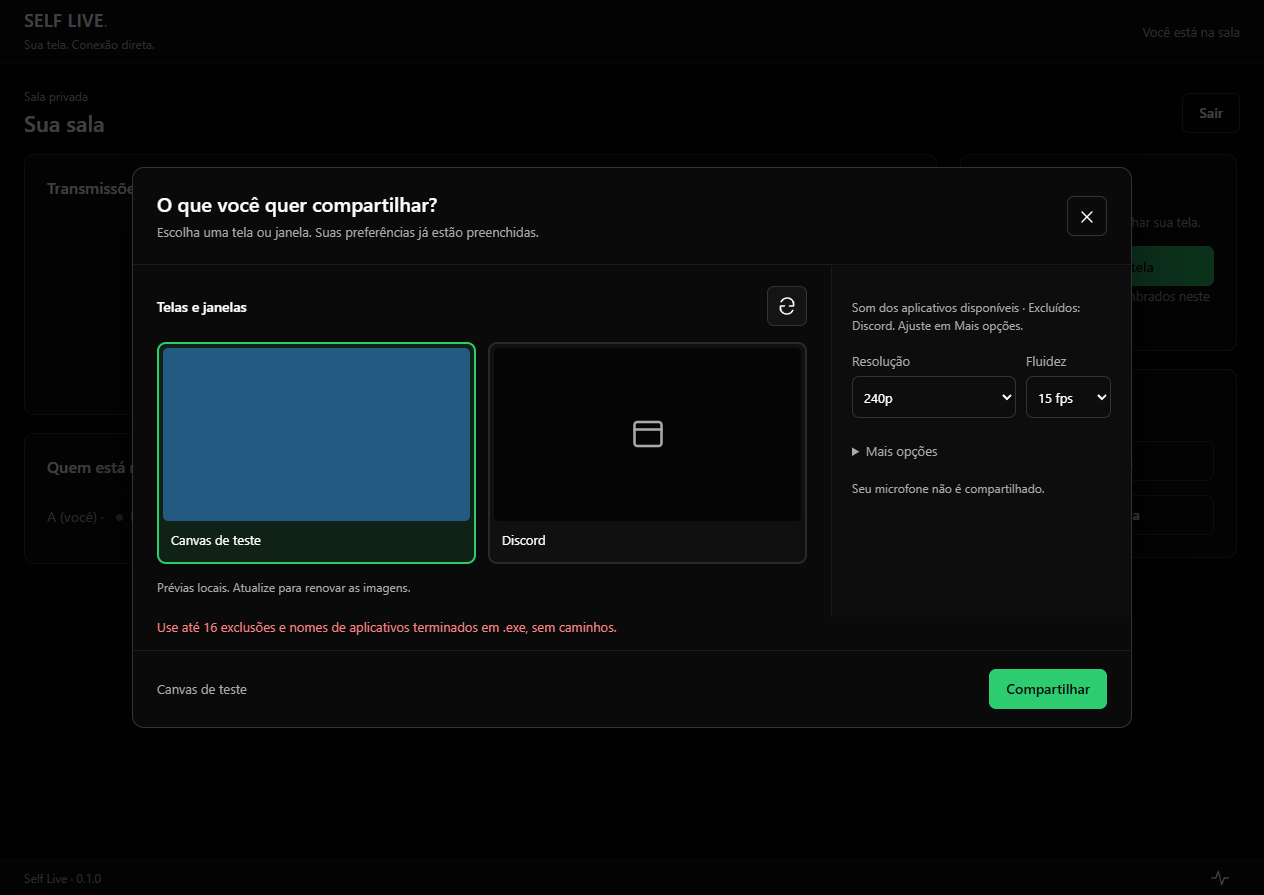
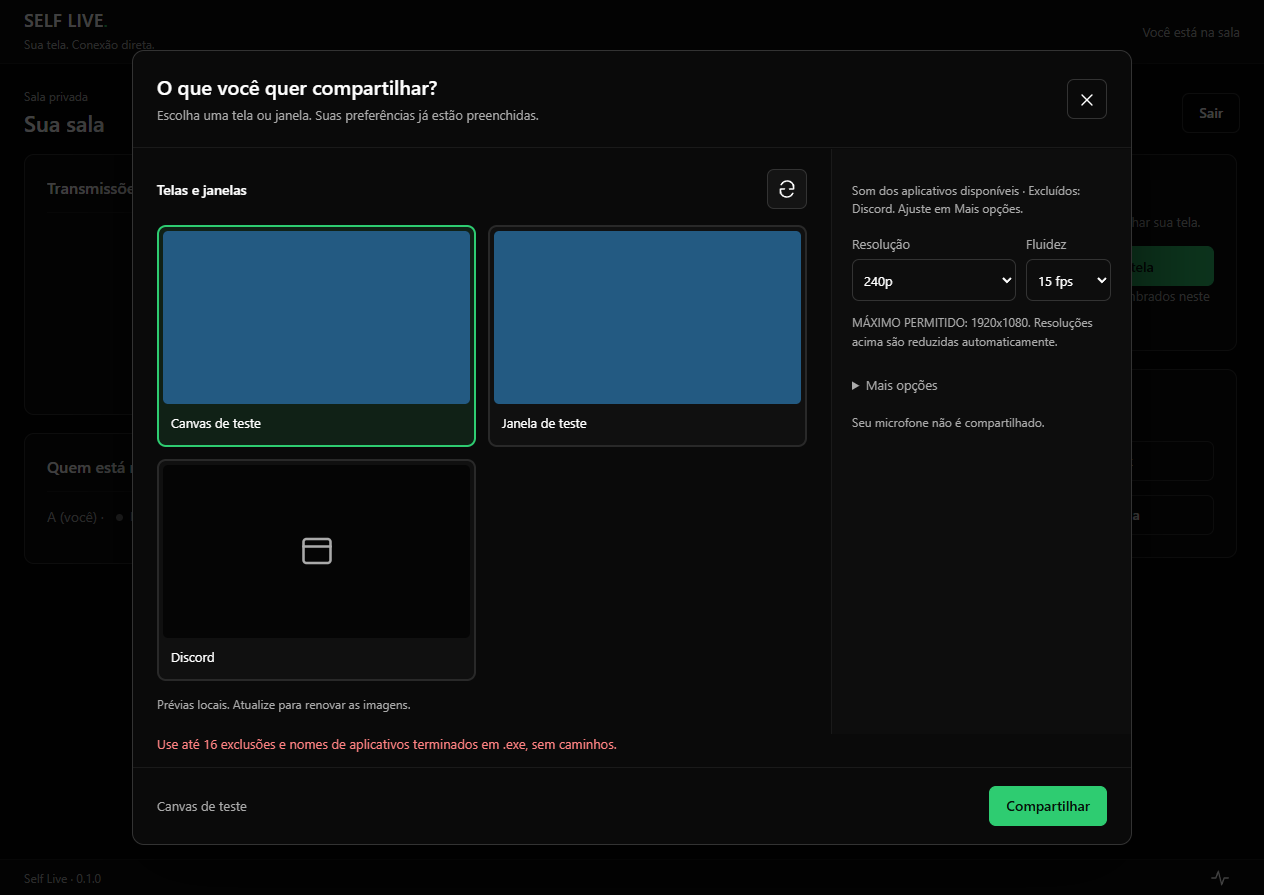
docs: document GPU diagnostics and refresh dashboard screenshots

diff --git a/docs/stream-audit.md b/docs/stream-audit.md
@@ -1,68 +1,65 @@
 # Auditoria de transmissão sob carga
 
-Ao começar a compartilhar, o app cria automaticamente um arquivo
-`self-live-audit-DATA-PID.jsonl` **na pasta do EXE portátil**. Nenhuma configuração
-é necessária. Pare a transmissão antes de enviar o arquivo; assim ele terá o
-registro de encerramento. O diagnóstico avançado informa o nome do arquivo.
+Na página inicial, abra **CONFIGURAÇÕES DE DIAGNÓSTICO** e ative **ATIVAR LOGS DE
+DIAGNÓSTICO** antes de transmitir. O padrão é OFF e a preferência fica em
+`config/local.json`, dentro dos dados do usuário do app. Não exige reinício.
+O toggle só existe na página inicial e fica bloqueado durante captura ativa.
 
-Se a pasta não permitir escrita, o arquivo fica em `audit` dentro dos dados do
-app (`%APPDATA%\self-live`, conforme o perfil da instalação). O diagnóstico avisa
-quando isso acontecer. Em desenvolvimento, os logs ficam na raiz do projeto.
-Falha no diagnóstico não interrompe a transmissão. Nada é enviado automaticamente.
+Os arquivos são gravados em **Documentos/SelfLive-Logs**, com nome
+`diagnostic-DATA-PID-PARTE.jsonl`. Use **ABRIR PASTA DE LOGS**. Cada parte tem até
+10 MiB, conservando as cinco últimas partes geradas. Pare antes de enviar para
+incluir o registro de encerramento. Não há mais criação automática ao lado do EXE.
+Se a pasta não puder ser gravada, o app avisa e mantém a transmissão.
 
-## O que coletamos
+## Experimento comparável
 
-- Versões do app, Electron/Chromium e Windows; arquitetura, número de threads e RAM.
-- Identificadores PCI não exclusivos dos adaptadores e versão do driver, quando disponível.
-- Configuração de captura, teto de bitrate e política de adaptação usados nesta build.
-- A cada 2 segundos: fps da fonte quando exposto pelo WebRTC, fps codificado/enviado,
-  resolução do envio, bitrate efetivo, tempo médio de encoding, motivo e duração
-  das limitações, RTT/perda/jitter reportados e número de viewers.
-- Uso de CPU e memória dos processos do Self Live; estado da prévia e do teste local.
-- A cada 10 segundos: carga dos motores 3D, cópia, compute e vídeo disponíveis
-  nos contadores Windows. Os valores representam o motor mais ocupado entre os
-  adaptadores, somando seus processos; não identificam qual jogo ou GPU o produziu.
-  A duração da consulta também é registrada. Se a consulta falhar, ela é desativada
-  até a próxima transmissão, sem afetar vídeo ou áudio.
+1. Ative logs na página inicial. Entre na sala e compartilhe a mesma fonte com
+   a mesma resolução, FPS e bitrate, sempre limitados a 1920 × 1080.
+2. Nos controles avançados da transmissão, desligue **ADAPTIVE** para o teste
+   manual não mudar a qualidade. Conecte um viewer, jogue com FPS ilimitado por
+   30–60 segundos, pare e exporte o diagnóstico pelo diagnóstico geral.
+3. Repita alterando somente o cap de FPS do jogo para 144. Esse cap é configurado
+   no jogo; o FPS de captura é outra configuração.
+4. Compare separadamente preview visível/oculto, 60/45/30/20/15 fps de captura e
+   FHD/720p/540p/480p. Desligue adaptive para liberar esses controles.
+5. Faça uma sessão com adaptive ON, jogo ilimitado e viewer conectado. Observe
+   notificações de ajustes; depois alivie a GPU e aguarde recuperação.
+6. Envie os JSONL e os JSONs exportados, junto de GPU, monitor, configurações do
+   jogo e descrição do problema: engasgo, atraso ou borramento.
 
-Os viewers recebem números locais à sessão (1, 2…), sem nome ou `node_id`.
-Não coletamos senha, hash, convite, endereço IP, candidatos ICE, SDP, nome da
-sala/janela/processo do jogo, imagens, áudio ou conteúdo transmitido.
+Não precisa executar como administrador. O experimento CPU não é suportado a
+quente pelo pipeline atual: ao tentar ativá-lo, o app informa GPU mantida. Não
+desativa globalmente a aceleração nem troca o encoder.
 
-Cada arquivo tem limite aproximado de **5 MiB**. Ao atingir o limite, registra
-`size_limit` e para de acrescentar amostras, mantendo o encerramento. O app conserva
-os **10 arquivos mais recentes** em cada pasta e remove somente seus próprios
-arquivos de auditoria com o padrão de nome gerado. Outros arquivos permanecem.
+## Interpretação
 
-## Teste com CS
+`capture.frameRate` e `captureMode.frameRate` descrevem a configuração, não a
+cadência observada. Use `observedFps`/`media-source.framesPerSecond`, `encodedFps`
+e `sentFps`. Taxas calculadas e `encodeMs` exigem duas leituras consecutivas.
 
-1. Use a nova build em uma pasta com permissão de escrita. Inicie CS e conecte
-   **um viewer**, mantendo o teste de mídia local desligado.
-2. Compartilhe uma cena com movimento por 2–3 minutos nas configurações que
-   apresentam o problema. Anote o horário aproximado da piora. Pare a transmissão
-   e guarde o primeiro arquivo.
-3. Repita a mesma cena, resolução, fps e bitrate, alterando somente o limite de
-   fps do jogo para deixar margem na GPU. Pare e guarde o segundo arquivo.
-4. Envie os dois arquivos e informe resolução do monitor, configurações usadas
-   e se o defeito era travamento, atraso ou imagem borrada.
+`captureGap` = FPS alvo / FPS observado. `captureStall` indica FPS observado
+abaixo de 75% do alvo; conteúdo estático também pode gerar FPS baixo. Contadores
+não disponibilizados pelo Chromium ficam `null`. O arquivo não inventa números
+de frames descartados ou congelados.
 
-Não precisa executar como administrador. Evite modificar várias opções entre
-testes, pois isso dificulta identificar a causa.
+`busiestEnginePercent` e `engineSaturation` mostram a engine mais ocupada do
+sistema, não exclusivamente o jogo nem obrigatoriamente a GPU da captura.
+`gpuScope`, `gpuTime` e `gpuAgeMs` tornam essa limitação explícita. A GPU é lida
+a cada 10 segundos; as amostras de captura usam esse último valor por até 15
+segundos. Falhas de leitura geram indisponível e são tentadas novamente.
 
-## Como interpretar
+GPU 3D alta com captura lenta é compatível com contenção gráfica. Não identifica
+por si só uma espera do DWM. `limitation: cpu` é uma classificação WebRTC e não
+uma medição de CPU. `hardwareEfficient`/categoria de encoder são opcionais e
+não comprovam um SDK específico. Não se registra conteúdo, senha, IP ou SDP/ICE.
 
-`capture.frameRate` é a configuração reportada pela track, não uma medição da
-cadência real. Use `media-source.framesPerSecond`, `encodedFps` e `sentFps` quando
-disponíveis. A primeira amostra não contém taxas calculadas: elas exigem duas
-leituras. `encodeMs` usa diferenças de tempo total e frames entre amostras.
+O adaptive avalia quatro amostras de dois segundos, com no mínimo dez segundos
+entre ajustes, e exige GPU alta junto com captura lenta. A recuperação exige
+seis observações de GPU ≤60% e captura sem stall. Sem GPU válida ou FPS observado,
+preserva a qualidade. Com logs OFF, adaptive ON ainda mede o mínimo necessário;
+OFF em ambos encerra essa coleta adicional.
 
-`limitation: cpu` indica limitação de processamento reportada pelo WebRTC; não é
-uma medida direta da CPU nem prova que a GPU é a causa. Os contadores de GPU,
-fps da fonte, tempo de encoding e teste comparativo ajudam a separar as hipóteses.
-`hardwareEfficient` é opcional e a categoria `hardware-or-external` não garante
-aceleração por hardware. Campos ausentes significam informação indisponível.
-
-O arquivo do streamer registra o feedback RTP disponível do viewer, mas não
-mede diretamente sua GPU, fps de apresentação ou congelamentos do player remoto.
-Esses dados exigiriam auditoria também no viewer. A coleta de contadores tem custo
-pequeno, porém não nulo; sua duração fica registrada para avaliar interferência.
+O export inclui as últimas 1000 amostras gravadas da sessão, configuração e
+resumo agregado da sessão toda. `samplesTruncated` indica truncamento em sessões
+mais longas. Arquivos exportados não são removidos pela rotação JSONL. O streamer
+não mede a latência completa até a tela do viewer.

diff --git a/README.md b/README.md
@@ -524,13 +524,115 @@ não oferecer IPv6, utiliza IPv4. A presença de um endereço global detectado n
 garante acesso externo: rota e firewall ainda precisam permitir a conexão.
 Uma restrição explícita em `SELF_LIVE_WS_HOST` prevalece sobre os listeners padrão.
 
+## Resolução máxima
+
+O limite absoluto é **1920 × 1080**, inclusive em NATIVA, janelas e adaptive.
+As constraints incluem máximos desde `getDisplayMedia`; antes de entregar a
+captura ao encoder, o app aplica o tamanho proporcional e confere `getSettings()`.
+Se o Chromium não respeitar o limite, todas as tracks dessa captura são encerradas.
+`SELF_LIVE_MEDIA_WIDTH`/`SELF_LIVE_MEDIA_HEIGHT` não são overrides suportados.
+
+Fontes 4K são reduzidas para até FHD. Ultrawide/portrait preservam as proporções
+quando possível: 3440 × 1440 resulta em aproximadamente 1920 × 803, não em uma
+imagem esticada. O badge informa o tamanho efetivo. Fontes menores não são ampliadas.
+No diagnóstico, confira `captureMode.originalResolution`, `effectiveResolution`,
+`downscaled` e `reason: "fhd_cap"`. Quando o tamanho original de uma janela não
+estiver disponível, `originalResolution` fica `null`; não usamos a miniatura como
+medida da fonte.
+
+## Diagnóstico de contenção de GPU
+
+Um jogo sem limite de FPS pode consumir a engine 3D e atrasar captura/conversão,
+inclusive o trabalho de composição do DWM. CPU e encoder pouco ocupados não
+descartam esse problema. Uma correlação entre GPU alta e FPS da fonte baixo é
+evidência de contenção, mas não identifica sozinha qual etapa do compositor travou.
+O contador GPU é a engine mais ocupada do sistema, inclusive em PCs com várias
+GPUs (`gpuScope: "system_busiest_engine"`); não atribui todo o uso ao jogo capturado.
+
+Durante a transmissão, abra **CONTROLES DE CAPTURA (AVANÇADO)**. O adaptive vem
+ligado: avalia blocos de quatro amostras de 2 segundos, exigindo três observações
+consecutivas de GPU 3D ≥90% e duas de captura lenta. A leitura GPU ocorre a cada
+10 segundos e é reutilizada nas amostras, com idade registrada. Dados ausentes
+ou com mais de 15 segundos não acionam ajustes. Não são três medições GPU
+independentes em seis segundos. Sem viewer/FPS observado, preserva a qualidade.
+
+A escada oculta o preview, reduz FPS para 45/30/20 e depois reduz resolução para
+1280 × 720 e 960 × 540, pulando etapas que não mudam o tamanho real. NATIVA já
+limitada a FHD não precisa de um passo idêntico de 1920 × 1080. Cada ajuste tem
+intervalo mínimo de 10 segundos; a avaliação por blocos pode aumentar esse intervalo.
+Seis observações de GPU ≤60% e captura sem stall recuperam um passo por vez,
+até a configuração inicial. O piso dos ajustes é o perfil 960 × 540 @20 fps,
+respeitando fontes menores e proporções. Uma configuração inicial manual abaixo
+desse piso é preservada e não recebe degradações adicionais.
+
+Desligue **ADAPTIVE** para ocultar/reabrir o preview, escolher NATIVA/1080p/720p/
+540p/480p ou limitar a captura a 60/45/30/20/15 fps. O preview oculto é removido
+do DOM. Resolução/FPS usam a track atual; trocar tela/janela usa o seletor nativo
+existente e substitui as tracks dos senders, preservando as conexões. O som continua
+sujeito à política de isolamento por aplicativo. A qualidade escolhida no modal
+define a configuração inicial de cada sessão; preferências de preview e adaptive
+ficam em `config/local.json`, dentro dos dados deste usuário do app.
+
+Limitar o FPS **do jogo** (por exemplo, comparar CS ilimitado com 144) pode deixar
+margem na GPU. O controle de FPS da captura não limita o jogo. Reduzir resolução/
+FPS e ocultar preview reduz trabalho do Self Live, mas não garante eliminar stalls.
+Prioridade de CPU não reserva recursos gráficos, trocar encoder não corrige uma
+fonte que não entrega frames e captura por CPU não elimina a composição GPU.
+
+**FORÇAR CAPTURA POR CPU** informa um fallback explícito: a troca não é suportada
+a quente neste pipeline Chromium e o modo permanece GPU. Não usamos flags que
+desativem globalmente aceleração/encoder fingindo que são apenas captura CPU.
+Captura/encode nativos DXGI/WGC → NVENC/AMF exigiriam outra integração de mídia.
+Um hook na swapchain também exige implementação nativa e compatibilidade com
+anti-cheat; não é uma solução universal, especialmente para CS2.
+
+## Logs de diagnóstico
+
+Na página inicial, em **CONFIGURAÇÕES DE DIAGNÓSTICO**, use **ATIVAR LOGS DE
+DIAGNÓSTICO**. Padrão OFF; preferência persistida em `config/local.json` no
+diretório de dados do usuário, sem `localStorage`. Não exige reiniciar. Enquanto
+houver captura ativa, o toggle fica bloqueado: pare a transmissão para alterar.
+Na transmissão, **● LOGS ON** indica a preferência ativada.
+
+Com logs ON, grava `diagnostic-<timestamp>-<pid>-<parte>.jsonl` em
+**Documentos/SelfLive-Logs** (a pasta Documentos pode estar redirecionada pelo
+Windows/OneDrive). Cada parte tem até 10 MiB; conserva as cinco últimas partes
+geradas. **ABRIR PASTA DE LOGS** abre o diretório. Ao parar, escreve o encerramento.
+Sem permissão de gravação, avisa e mantém a transmissão; não muda silenciosamente
+o destino. Logs antigos ao lado do EXE não são apagados por essa rotação.
+
+Com logs OFF, não cria JSONL nem coleta CPU/memória dos processos. Conforme a
+configuração adotada, o adaptive ainda coleta métricas mínimas de captura/GPU
+sem gravar arquivos. Desligando também adaptive, essa coleta adicional é encerrada.
+Os indicadores de conexão existentes continuam independentes.
+
+`captureGap` é a razão FPS alvo / FPS observado, não milissegundos. `captureStall`
+marca FPS observado abaixo de 75% do alvo; não é prova de congelamento de conteúdo.
+`framesCaptured` usa o contador de `media-source` quando disponível. Contadores
+de frames descartados/travados não oferecidos pelo Chromium ficam `null`, sem
+estimativas inventadas. As taxas de envio e `encodeMs` continuam calculadas por
+diferença entre estatísticas. Nenhuma imagem, áudio, senha, IP, SDP/ICE ou identidade
+de peer entra no arquivo.
+
+**EXPORTAR DIAGNÓSTICO** aparece nos controles avançados e no diagnóstico geral,
+inclusive após parar. Gera `experiment-<timestamp>.json` com configuração,
+amostras e resumo. Conserva em memória as últimas 1000 amostras gravadas; sessões
+maiores marcam `samplesTruncated`, e o resumo agrega todas as amostras gravadas
+da sessão. Exportar sem logs retorna um relatório sem amostras. JSONs exportados
+não entram na rotação dos JSONL.
+
+```powershell
+npm run test:adaptive
+npm run test:logging-toggle
+npm run test:resolution-cap
+npm run test:ui
+```
+
 ## Verificação automatizada
 
-Cada transmissão gera automaticamente um log de auditoria ao lado do EXE portátil,
-com fps/bitrate reais, tempo de codificação, limitações e carga dos motores da GPU.
-Não inclui senha, IPs, SDP/ICE ou conteúdo. Limite: 5 MiB por sessão e 10 arquivos.
-Veja [como auditar o CS sob carga](docs/stream-audit.md) e envie os arquivos após
-parar a transmissão. A coleta não altera a qualidade configurada.
+Logs são opcionais e começam desativados. Ative-os na página inicial antes de
+transmitir. Veja [como auditar o CS sob carga](docs/stream-audit.md). O adaptive
+pode alterar a qualidade; desligue-o para comparar experimentos manuais.
 
 ```powershell
 npm run check
